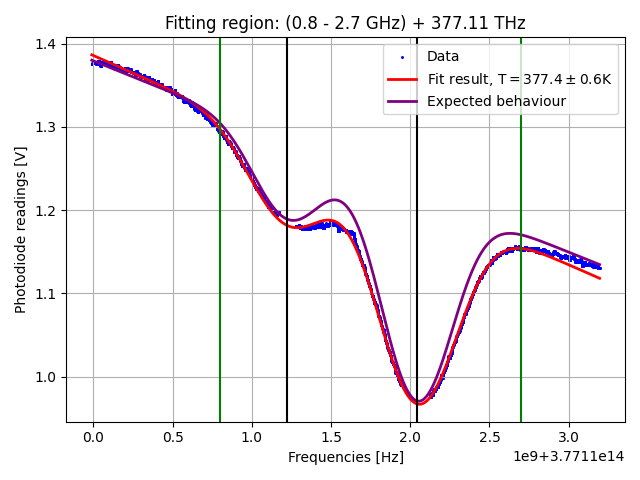
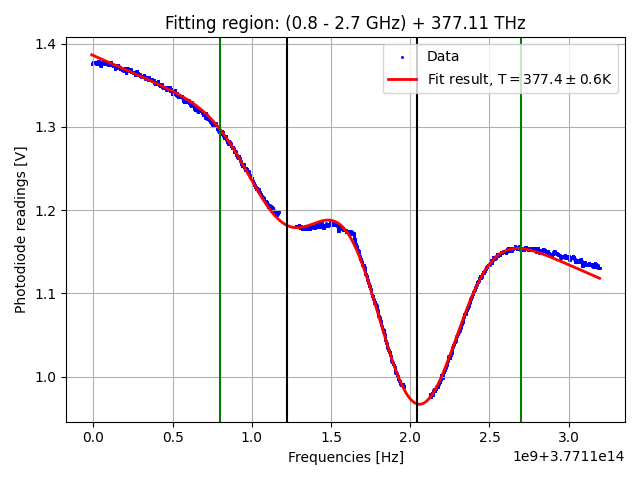
removing expected behaviour

diff --git a/shoulder_scaled.py b/shoulder_scaled.py
@@ -17,7 +17,7 @@ rb_mass = 1.67e-27 * 87   # kg
 c = 3e8
 term2 = kb / (c**2 * rb_mass)
 
-lower_mask = (2.2 + 3.7711e5) * 1e9
+lower_mask = (0.8 + 3.7711e5) * 1e9
 upper_mask = (2.7 + 3.7711e5) * 1e9
 
 # calib_correction = np.array([75, 251]) * 1e6
@@ -82,7 +82,6 @@ popt, pcov = curve_fit(transmission_temp_scaled, xdata=restricted_freq_scaled,
 f = np.linspace(min(frequencies), max(frequencies), 500)
 f_sc = np.linspace(min(scaled_frequencies), max(scaled_frequencies), 500)
 pd_fit = transmission_temp_scaled(f_sc, *popt)
-pd_expected = transmission_temp_scaled(f_sc, *p0)
 
 intercept_estimate = popt[1] - x_min / scale_factor * popt[0]
 intercept_estimate_error = np.sqrt(
@@ -103,8 +102,6 @@ plt.scatter(frequencies, photodiode, label='Data',
             color='blue', s=5, marker='.')
 plt.plot(f, pd_fit, label=f'Fit result, T$={popt[4]:.1f}\\pm{np.sqrt(pcov[4, 4]):.1f}$K',
          color='red', linewidth=2)
-plt.plot(f, pd_expected, label='Expected behaviour',
-         color='purple', linewidth=2)
 plt.axvline(f_peaks[0], color='black')
 plt.axvline(f_peaks[1], color='black')
 plt.axvline(lower_mask, color='green')
